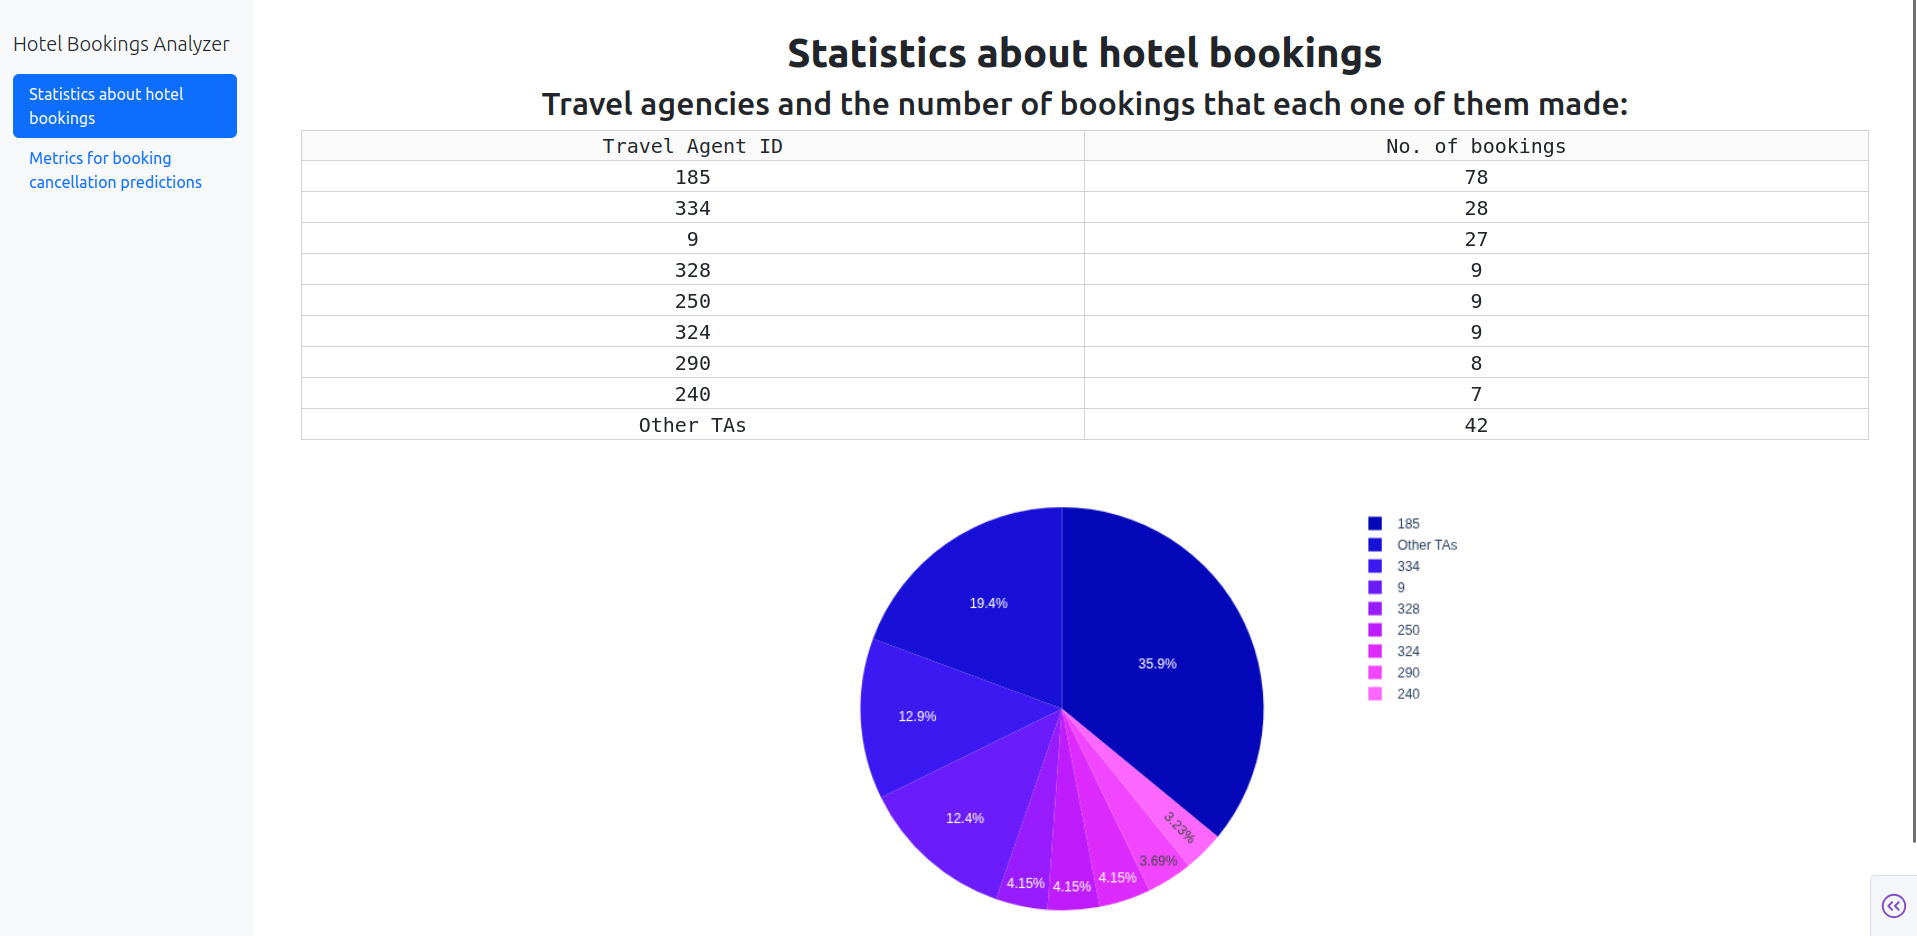
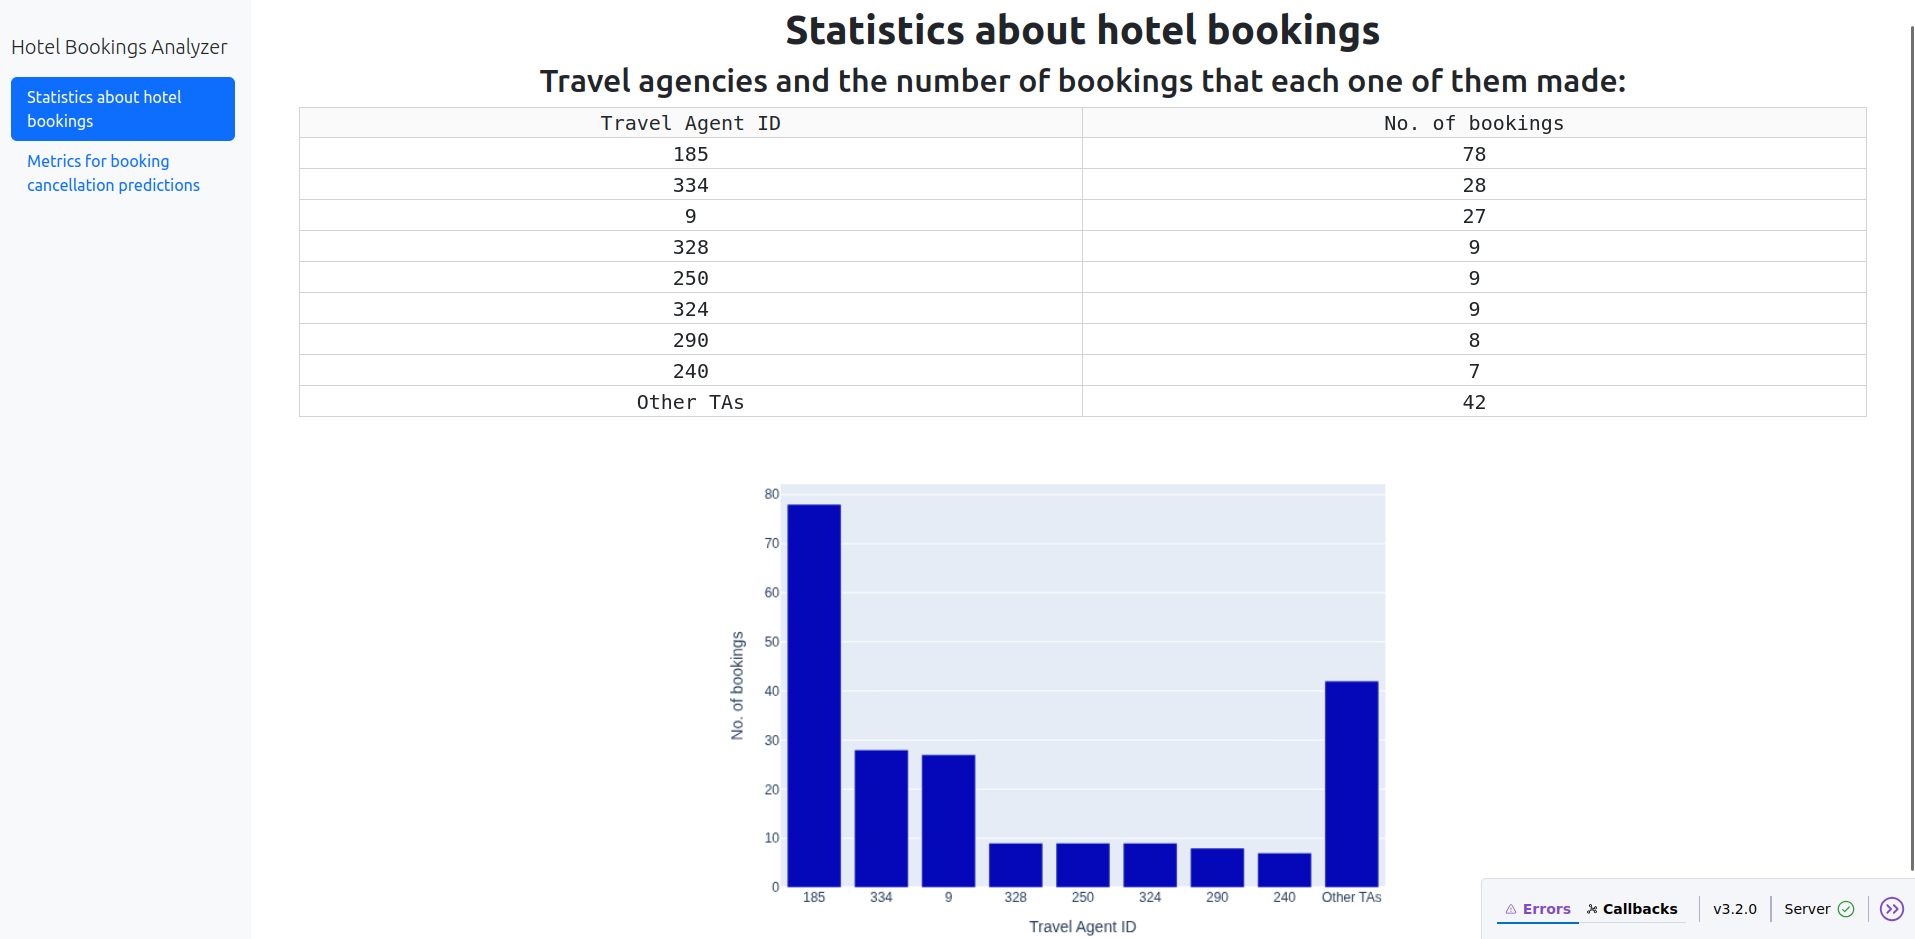
changed the pie chart to a bar chart type

diff --git a/dash_app.py b/dash_app.py
@@ -52,7 +52,7 @@ TAKEN FROM 17
 The solution for applying bold text to a HTML header was taken from https://community.plotly.com/t/how-can-i-show-a-bold-text-output/52798
 
 TAKEN FROM 18
-The code for creating a pie plot and preparing its data using Plotly was taken from https://plotly.com/python/pie-charts/
+The code for creating a bar plot and preparing its data using Plotly was taken from https://plotly.com/python/bar-charts/
 
 TAKEN FROM 19
 The code for saving a static image using Plotly was taken from https://plotly.com/python/static-image-export/
@@ -89,7 +89,7 @@ max_iter_lr = 1000
 # TAKEN FROM START 1
 
 """
-Create a table with how many bookings the travel agents made and a pie chart displaying percentages related to the number of bookings.
+Create a table with how many bookings the travel agents made and a bar chart displaying the number of bookings made with each TA
 """
 
 hotel_bookings_dataset = pd.read_csv("data/hotel_bookings.csv")
@@ -165,13 +165,13 @@ plt.savefig("assets/shap_values_beeswarm_plot.png")
 # TAKEN FROM END 10
 
 # TAKEN FROM START 18
-current_fig = px.pie(data_frame=travel_agents_and_no_bookings_dataframe,
-                     values=travel_agents_and_no_bookings_dataframe["No. of bookings"],
-                     names=travel_agents_and_no_bookings_dataframe["Travel Agent ID"],
+current_fig = px.bar(data_frame=travel_agents_and_no_bookings_dataframe,
+                     y=travel_agents_and_no_bookings_dataframe["No. of bookings"],
+                     x=travel_agents_and_no_bookings_dataframe["Travel Agent ID"],
                      color_discrete_sequence=px.colors.sequential.Plotly3)
 # TAKEN FROM END 18
 # TAKEN FROM START 19
-current_fig.write_image("assets/travel_agents_and_no_bookings_pie_plot.png")
+current_fig.write_image("assets/travel_agents_and_no_bookings_bar_plot.png")
 # TAKEN FROM END 19
 
 # TAKEN FROM START 21
@@ -227,7 +227,7 @@ content_statistics_bookings = html.Div([
     dash_table.DataTable(data=travel_agents_and_no_bookings_dataframe.to_dict("records"),
                          style_cell={"font_size": "20px",
                                      "text_align": "center"}),
-    html.Div(children=[html.Img(src="assets/travel_agents_and_no_bookings_pie_plot.png", style={"height":"50%", "width":"50%"})],
+    html.Div(children=[html.Img(src="assets/travel_agents_and_no_bookings_bar_plot.png", style={"height":"50%", "width":"50%"})],
              style=dict(display="flex", justifyContent="center")),
         # TAKEN FROM END 14
 
